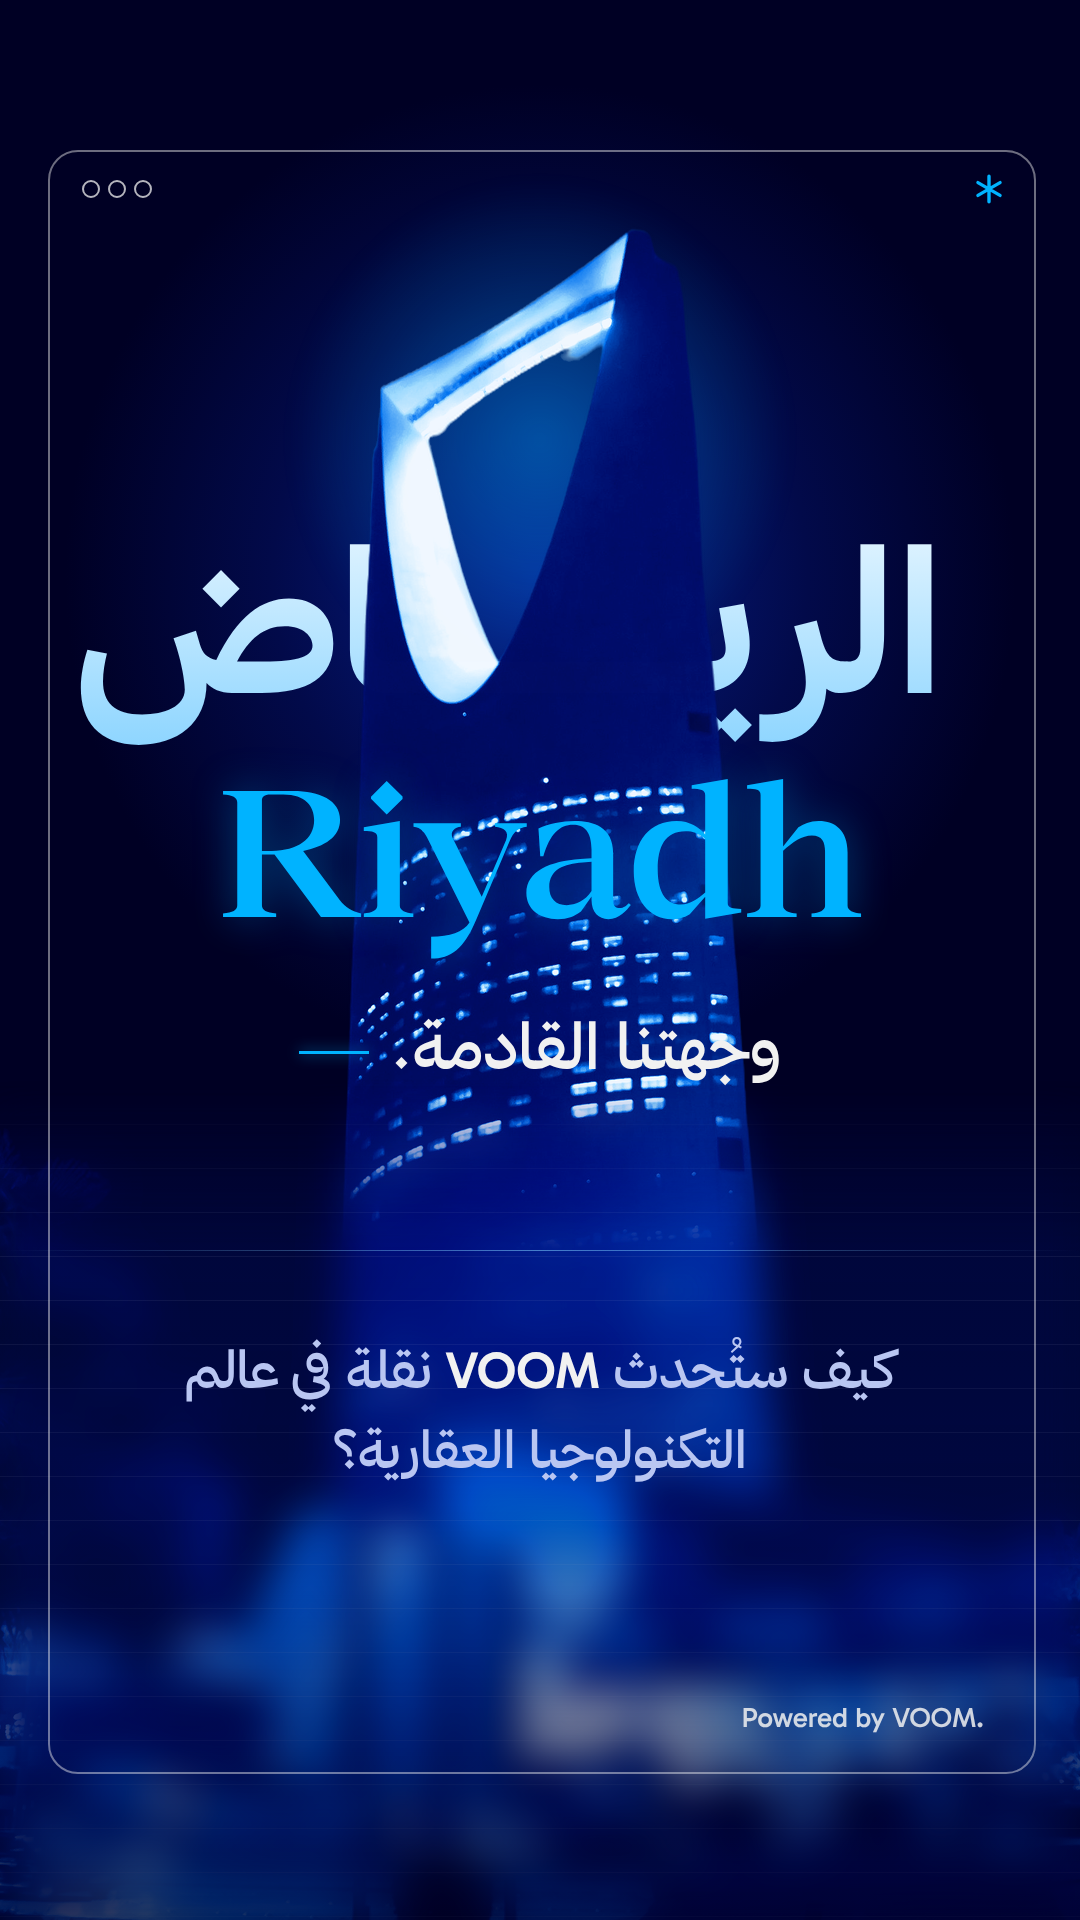
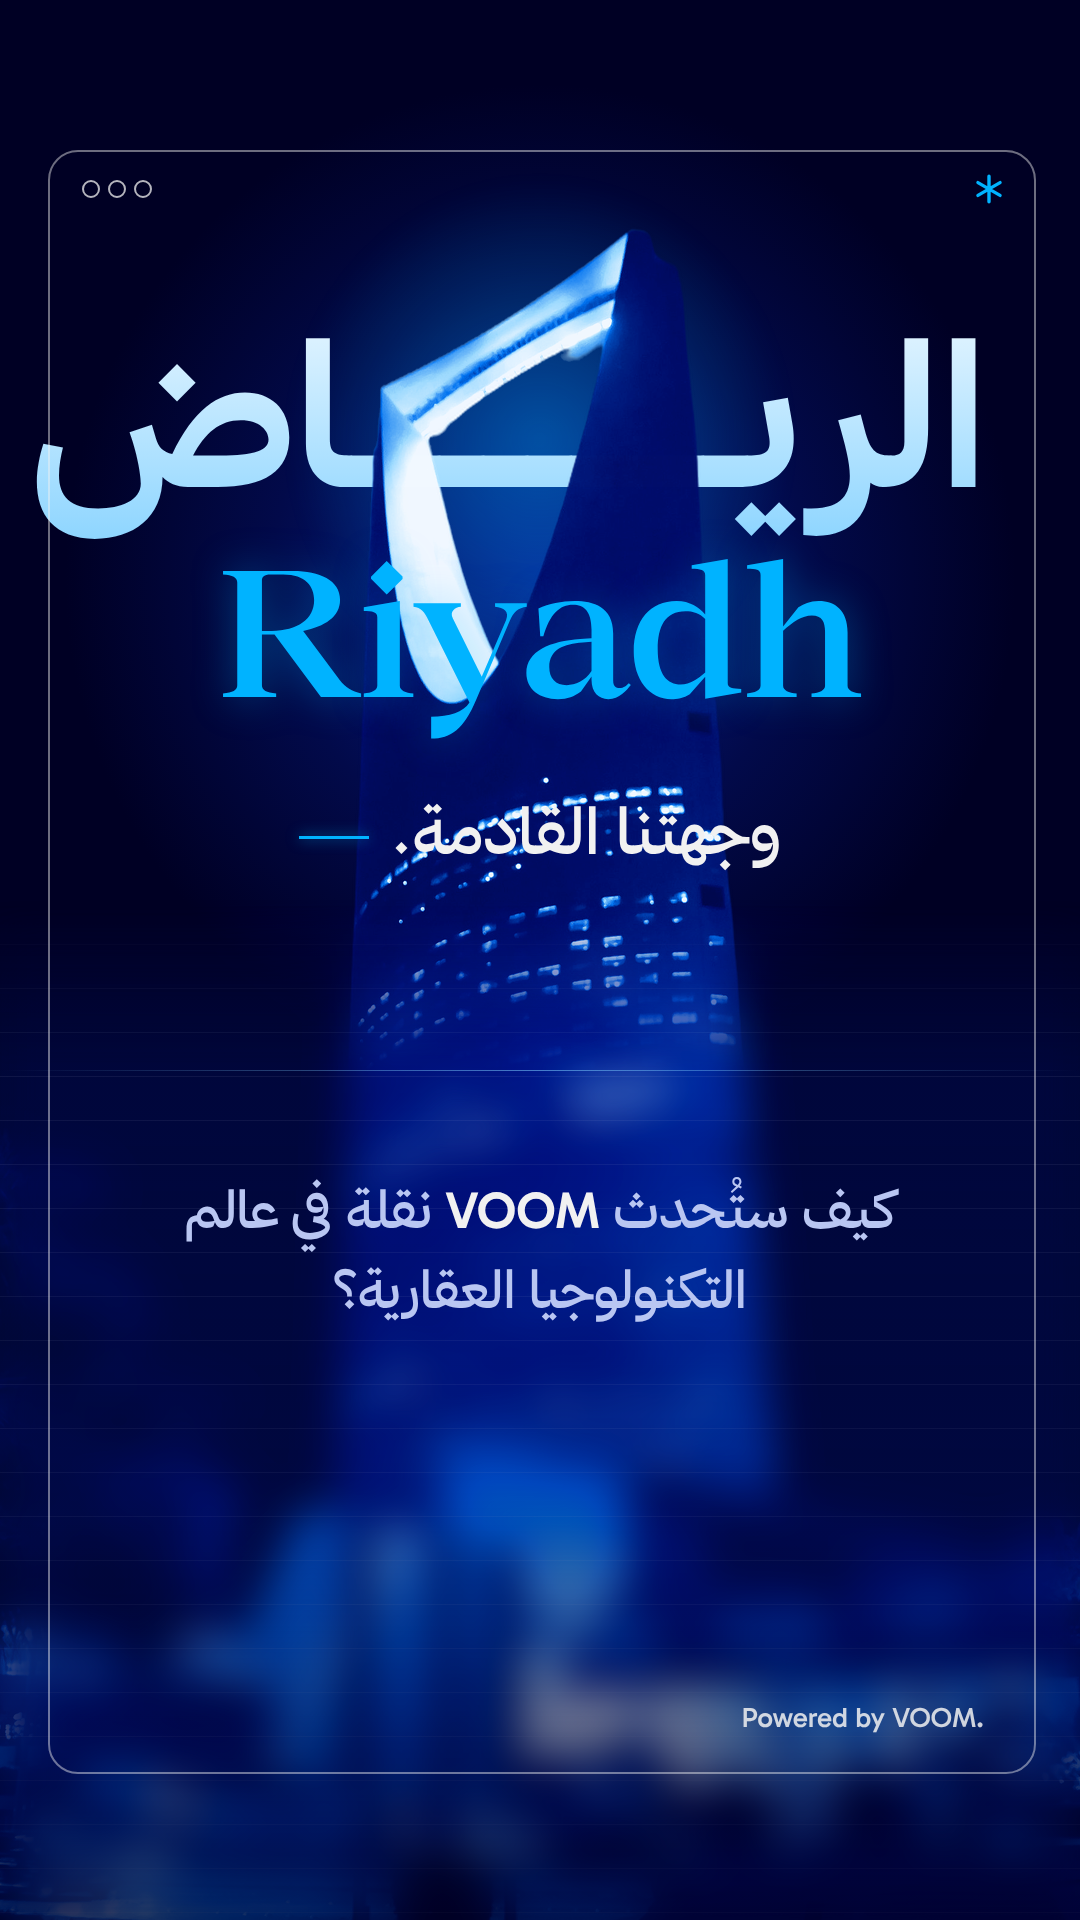
Riyadh frame: kashida runs through the Kingdom Centre arch opening; layout re-flowed; art-director rule
Claude-Session: https://claude.ai/code/session_01P2Pk54NgPyd972qv8F5qJe

diff --git a/storyboard/reel/riyadh_frame.html b/storyboard/reel/riyadh_frame.html
@@ -8,23 +8,23 @@ html,body{margin:0;background:#000}
 .ar{direction:rtl}
 .grad{background:linear-gradient(180deg,#eaf7ff 10%,#7fd0ff 95%);-webkit-background-clip:text;background-clip:text;color:transparent;padding-block:.12em .3em;margin-block:-.12em -.3em}
 /* 1. the Arabic word, huge, behind the tower */
-#ar{left:0;right:0;top:520px;transform:translateX(-28px);text-align:center;font-weight:700;font-size:198px;line-height:1;letter-spacing:0;white-space:nowrap}
+#ar{left:0;right:0;top:314px;transform:translateX(-28px);text-align:center;font-weight:700;font-size:198px;line-height:1;letter-spacing:0;white-space:nowrap}
 /* 2. the tower */
 #tw{left:-274px;top:-159px;width:1600px;height:2400px}
 #halo{left:290px;top:180px;width:500px;height:520px;border-radius:50%;background:radial-gradient(closest-side,rgba(0,179,255,.38),transparent);filter:blur(10px)}
 /* 3. the English word, in front of the tower */
-#en{left:0;right:0;top:760px;text-align:center;font-family:"thmanyah serif display";font-weight:500;font-size:180px;line-height:1;color:var(--light);letter-spacing:-.01em;text-shadow:0 0 40px rgba(0,179,255,.35)}
+#en{left:0;right:0;top:540px;text-align:center;font-family:"thmanyah serif display";font-weight:500;font-size:180px;line-height:1;color:var(--light);letter-spacing:-.01em;text-shadow:0 0 40px rgba(0,179,255,.35)}
 /* 4. under them, above the glass */
-#sub{left:0;right:0;top:1005px;text-align:center;font-size:64px;font-weight:500}
+#sub{left:0;right:0;top:790px;text-align:center;font-size:64px;font-weight:500}
 #sub .dash{display:inline-block;width:70px;height:3px;background:var(--light);vertical-align:middle;margin-inline-start:22px;box-shadow:0 0 14px rgba(0,179,255,.7)}
 /* 5. horizontal glass, middle → bottom, feathered top edge */
-#glass{left:0;top:1080px;width:1080px;height:840px;backdrop-filter:blur(22px) saturate(1.25);-webkit-backdrop-filter:blur(22px) saturate(1.25);
+#glass{left:0;top:900px;width:1080px;height:1020px;backdrop-filter:blur(22px) saturate(1.25);-webkit-backdrop-filter:blur(22px) saturate(1.25);
   background:linear-gradient(180deg,rgba(0,60,190,.10),rgba(0,18,90,.42) 60%,rgba(0,0,36,.72)),
     repeating-linear-gradient(180deg,rgba(255,255,255,.07) 0 1.5px,transparent 1.5px 44px);
   -webkit-mask-image:linear-gradient(180deg,transparent 0,#000 170px);mask-image:linear-gradient(180deg,transparent 0,#000 170px)}
-#gline{left:0;top:1250px;width:1080px;height:1px;background:linear-gradient(90deg,transparent,rgba(127,208,255,.55),transparent)}
+#gline{left:0;top:1070px;width:1080px;height:1px;background:linear-gradient(90deg,transparent,rgba(127,208,255,.55),transparent)}
 /* 6. the question, on the glass */
-#q{left:0;right:0;top:1330px;text-align:center;font-size:52px;font-weight:500;line-height:1.5;color:var(--mute)}
+#q{left:0;right:0;top:1170px;text-align:center;font-size:52px;font-weight:500;line-height:1.5;color:var(--mute)}
 #q .vm{font-family:Gabarito;font-weight:600;color:var(--off);direction:ltr;unicode-bidi:isolate}
 /* frame language from our hook */
 #win{left:48px;top:150px;width:984px;height:1620px;border:2px solid rgba(241,241,241,.45);border-radius:30px}
@@ -34,7 +34,7 @@ html,body{margin:0;background:#000}
 </style></head><body>
 <div id="f">
   <div class="abs" id="halo"></div>
-  <div class="abs ar" id="ar"><span class="grad" id="arw">الريـــــــاض</span></div>
+  <div class="abs ar" id="ar"><span class="grad" id="arw">الريـــــــــاض</span></div>
   <img class="abs" id="tw" src="assets/kc_tower_voom.png" alt="">
   <div class="abs" id="en">Riyadh</div>
   <div class="abs ar" id="sub">وجهتنا القادمة.<span class="dash"></span></div>

diff --git a/.claude/skills/art-director/SKILL.md b/.claude/skills/art-director/SKILL.md
@@ -165,4 +165,5 @@ Never repeat these; add new ones here as they come.
 - Plate rectangles and empty bottoms → match the storyboard frame exactly, including background and ground; check the frame edges.
 - Synthesized SFX sounded cheap and dense → use a real library, ~1 sound per meaningful event, ≈30-45 cues per 40 s.
 - New copy on an existing scene: re-check the imagery against the storyboard frame (position and size), so the copy sits where the storyboard put it and nothing covers it. Keep the guide light calm: few, slow landings, never hopping over every line.
+- Type woven into a landmark: measure the landmark's negative space (e.g. the Kingdom Centre arch opening) and run the kashida through it, so the stretch shows inside the opening and the solid parts hide it; never let the solid structure eat letters.
 - Don't change what the user didn't ask for; when a fix needs a judgement call, show the result and let them decide.
